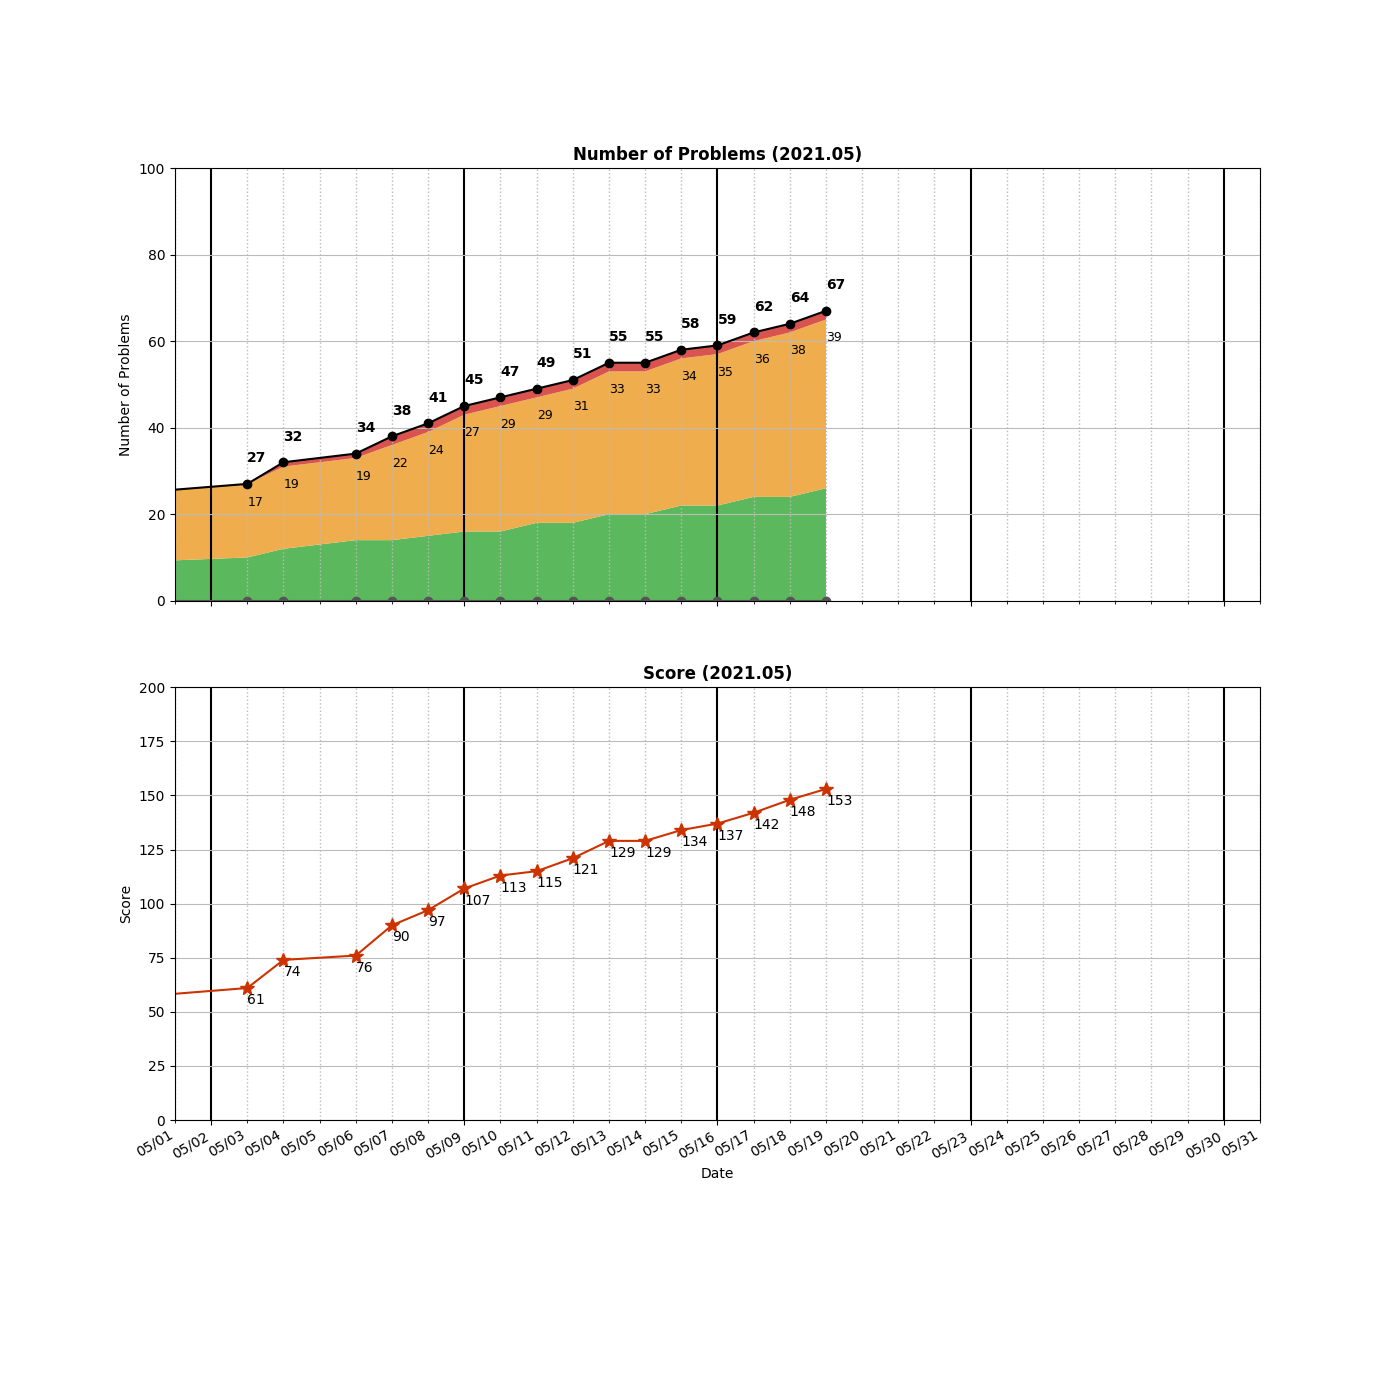
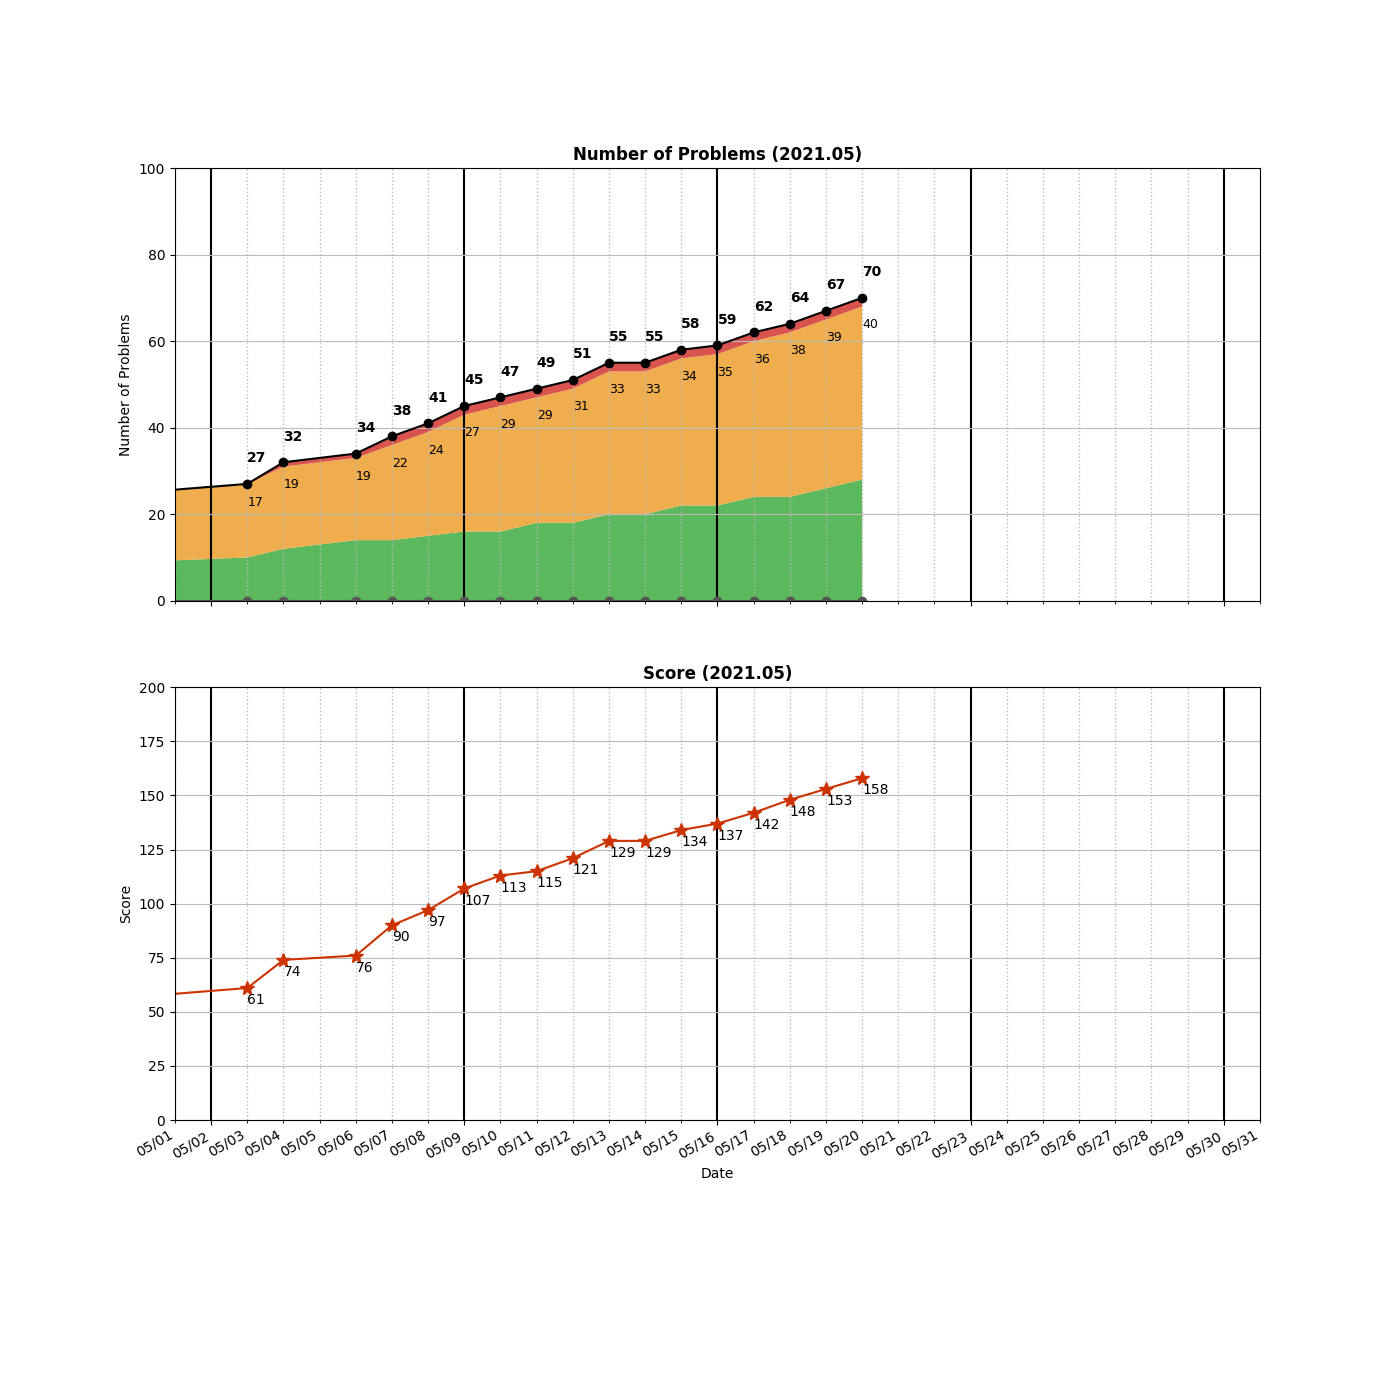
Added __0680__Valid Palindrome II.py

Changed region(s): [[0.5836, 0.215, 0.645, 0.43], [0.6143, 0.5529, 0.645, 0.5836]]

diff --git a/algo/Two-Pointer/__0680__Valid Palindrome II.py b/algo/Two-Pointer/__0680__Valid Palindrome II.py
@@ -1,0 +1,63 @@
+class Solution:
+    # Two-Pointer, remove left or right when facing difference, passing index [O(n), 51%]
+    def validPalindrome(self, s: str) -> bool:
+        print("Method-0")
+        if not s:
+            return True
+        
+        left, right = 0, len(s) - 1
+        while left < right:
+            if s[left] != s[right]:
+                return self.isPalindrome(s, left + 1, right) or self.isPalindrome(s, left, right - 1)
+            left += 1
+            right -= 1
+        return True
+        
+    def isPalindrome(self, s: str, left, right) -> bool:
+        if not s:
+            return True
+        while left < right:
+            if s[left] != s[right]:
+                return False
+            left += 1
+            right -= 1
+        return True
+    
+    # ==============================================
+    
+    # Two-Pointer, remove left or right when facing difference, using slicing [O(n), 9%]
+    def validPalindrome1(self, s: str) -> bool:
+        print("Method-1")
+        if not s:
+            return True
+        
+        left, right = 0, len(s) - 1
+        while left < right:
+            # while left < right and not s[left].isalpha() and not s[left].isdigit():
+            #     left += 1
+            # while left < right and not s[right].isalpha() and not s[right].isdigit():
+            #     right -= 1
+            if s[left].lower() != s[right].lower():
+                return self.isPalindrome1(s[left+1:right+1]) or self.isPalindrome1(s[left:right])
+            left += 1
+            right -= 1
+        return True
+        
+    def isPalindrome1(self, s: str) -> bool:
+        #print(s)
+        if not s:
+            return True
+        
+        left, right = 0, len(s) - 1
+        while left < right:
+            while left < right and not s[left].isalpha() and not s[left].isdigit():
+                left += 1
+            while left < right and not s[right].isalpha() and not s[right].isdigit():
+                right -= 1
+            #print(s[left], s[right])
+            if s[left].lower() != s[right].lower():
+                return False
+            left += 1
+            right -= 1
+        return True
+            

diff --git a/README.md b/README.md
@@ -78,17 +78,21 @@ algo
 │   └── __0863__All\ Nodes\ Distance\ K\ in\ Binary\ Tree.py
 └── Two-Pointer
     ├── __0003__Longest\ Substring\ Without\ Repeating\ Characters.py
+    ├── __0015__3Sum.py
+    ├── __0125__Valid\ Palindrome.py
     ├── __0167__Two\ Sum\ II\ -\ Input\ array\ is\ sorted.py
     ├── __0189__Rotate\ Array.py
+    ├── __0680__Valid\ Palindrome\ II.py
     └── __1099__Two\ Sum\ Less\ Than\ K.py
 
-14 directories, 67 files
+14 directories, 70 files
 
 =====================================
 ============= Local Repo ============
 =====================================
 __0001__Two Sum.py
 __0003__Longest Substring Without Repeating Characters.py
+__0015__3Sum.py
 __0017__Letter Combinations of a Phone Number.py
 __0020__Valid Parentheses.py
 __0021__Merge Two Sorted Lists.py
@@ -118,6 +122,7 @@ __0113__Path Sum II.py
 __0114__Flatten Binary Tree to Linked List.py
 __0121__Best Time to Buy and Sell Stock.py
 __0122__Best Time to Buy and Sell Stock II.py
+__0125__Valid Palindrome.py
 __0127__Word Ladder.py
 __0133__Clone Graph.py
 __0144__Binary Tree Preorder Traversal.py
@@ -149,13 +154,14 @@ __0378__Kth Smallest Element in a Sorted Matrix.py
 __0437__Path Sum III.py
 __0617__Merge Two Binary Trees.py
 __0658__Find K Closest Elements.py
+__0680__Valid Palindrome II.py
 __0694__Number of Distinct Islands.py
 __0704__Binary Search.py
 __0706__Design HashMap.py
 __0863__All Nodes Distance K in Binary Tree.py
 __1099__Two Sum Less Than K.py
 =====================================
-Num of Python Practice:  67
+Num of Python Practice:  70
 
 
 =====================================
@@ -163,6 +169,7 @@ Num of Python Practice:  67
 =====================================
  0001 Two Sum
  0003 Longest Substring Without Repeating Characters
+ 0015 3Sum
  0017 Letter Combinations of a Phone Number
  0020 Valid Parentheses
  0021 Merge Two Sorted Lists
@@ -192,6 +199,7 @@ Num of Python Practice:  67
  0114 Flatten Binary Tree to Linked List
  0121 Best Time to Buy and Sell Stock
  0122 Best Time to Buy and Sell Stock II
+ 0125 Valid Palindrome
  0127 Word Ladder
  0133 Clone Graph
  0144 Binary Tree Preorder Traversal
@@ -223,17 +231,18 @@ Num of Python Practice:  67
  0437 Path Sum III
  0617 Merge Two Binary Trees
  0658 Find K Closest Elements
+ 0680 Valid Palindrome II
  0694 Number of Distinct Islands
  0704 Binary Search
  0706 Design HashMap
  0863 All Nodes Distance K in Binary Tree
  1099 Two Sum Less Than K
 =====================================
-Solved / Total (Easy)  :   26 /  490
-Solved / Total (Medium):   39 /  983
+Solved / Total (Easy)  :   28 /  490
+Solved / Total (Medium):   40 /  983
 Solved / Total (Hard)  :    2 /  394
-Solved / Total (All)   :   67 / 1867
-Total Score            :  153
+Solved / Total (All)   :   70 / 1867
+Total Score            :  158
 =====================================
 
 ```
